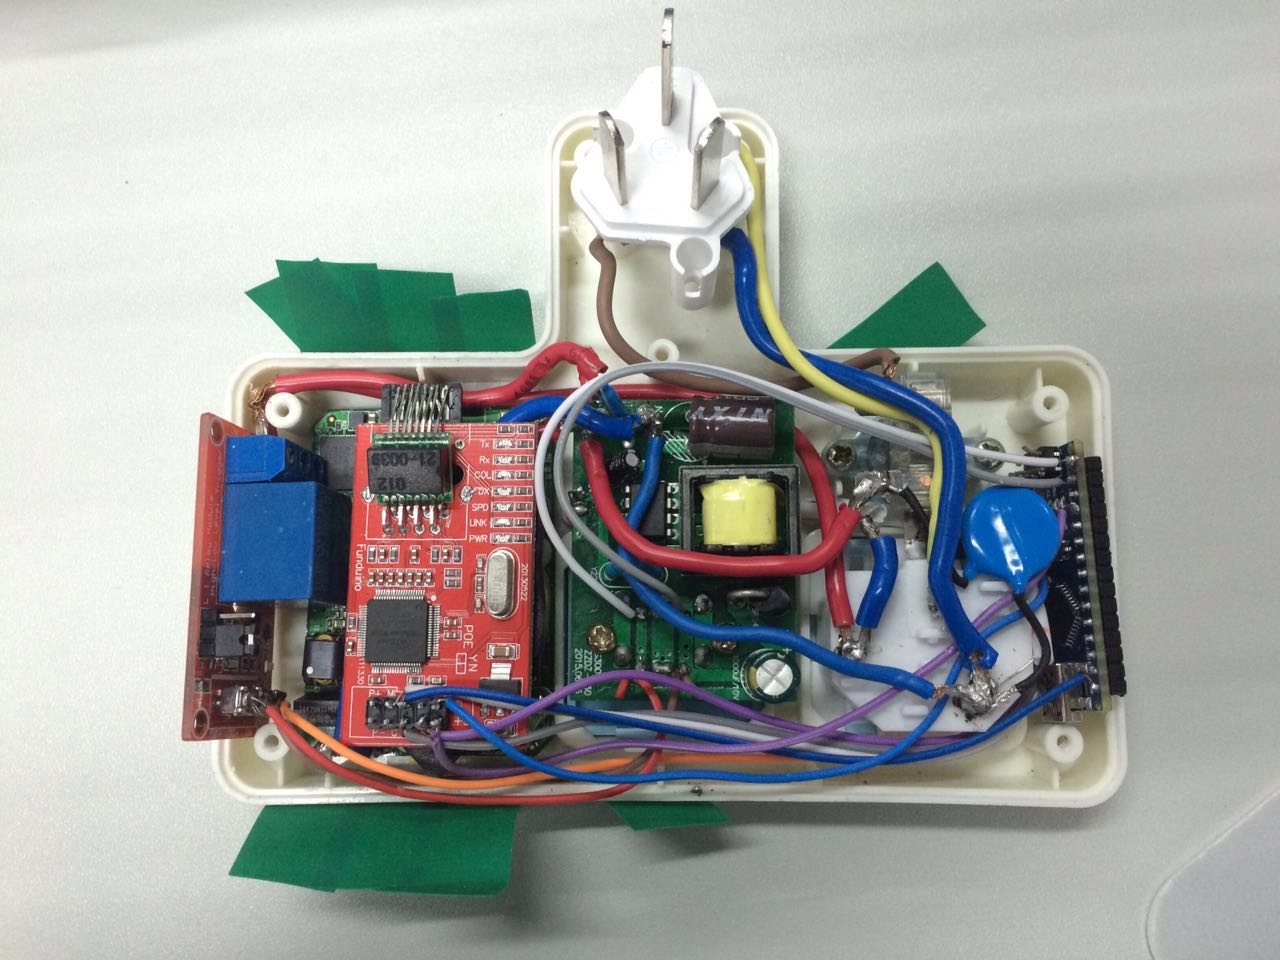
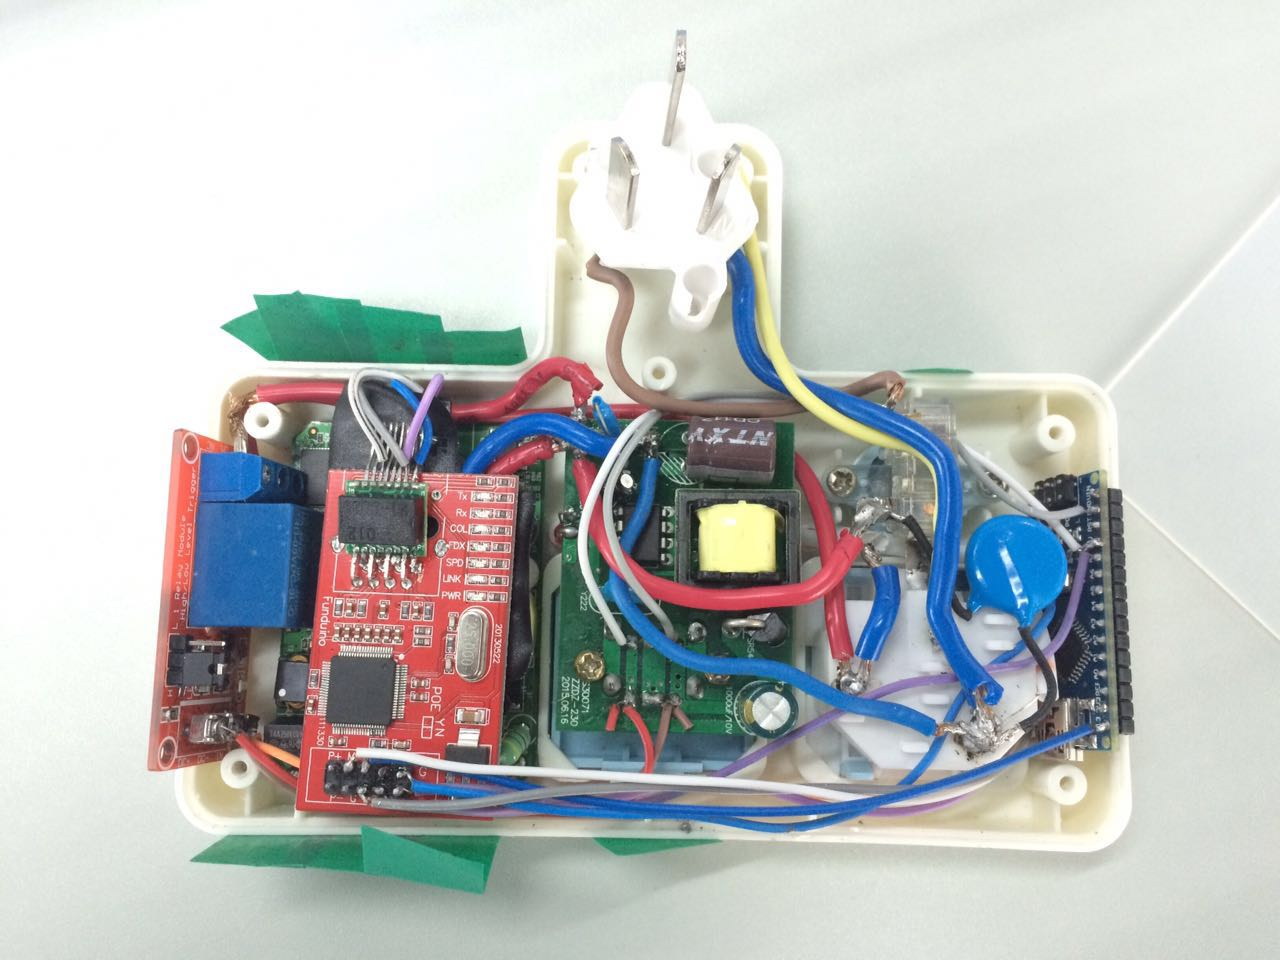
Update wiring mode

diff --git a/docs/smart_plug.md b/docs/smart_plug.md
@@ -31,11 +31,11 @@
 硬件连接
 --------
 
-用插座本身的 USB 接口给 Arduino Nano 供电，因此 USB 的 5V 和 GND 分别接 Arduino Nano 的 VIN 和 GND；同样 USB 的 5V 和 GND 也分别接继电器的 DC+ 和 DC-。Arduino Nano 与 W5100 通过 SPI 的通信，通信接口为（D10(SS)，D11(MOSI)，D12(MISO)，D13(SCK)），总的连线如下，参考智能插座内部图：
+用插座本身的 USB 接口给 Arduino Nano 供电，因此 USB 的 5V 和 GND 分别接 Arduino Nano 的 5V 和 GND；同样 USB 的 5V 和 GND 也分别接继电器的 DC+ 和 DC-。Arduino Nano 与 W5100 通过 SPI 的通信，通信接口为（D10(SS)，D11(MOSI)，D12(MISO)，D13(SCK)）；W5100 与载波模块采取 RJ45 交叉线的连接方式，总的连线如下，参考智能插座内部图：
 
 | Arduino Nano | W5100 | 插座 | 继电器 | 载波模块 |
 |--------|--------|--------|--------|--------|
-| VIN |  | USB 5V | DC+ |  |
+| 5V |  | USB 5V | DC+ |  |
 | GND |  | USB GND | DC- |  |
 | D9 |  |  | IN |  |
 | 5V | +5 |  |  |  |
@@ -47,7 +47,10 @@
 |  |  | LIN(输入火线) | COM | L(火线) |
 |  |  | NIN(输入零线) |  | N(零线) |
 |  |  | LOUT(输出火线) | NO |  |
-|  | RJ45 |  |  | RJ45 |
+|  | RJ45-1 |  |  | RJ45-3 |
+|  | RJ45-3 |  |  | RJ45-1 |
+|  | RJ45-2 |  |  | RJ45-6 |
+|  | RJ45-6 |  |  | RJ45-2 |
 
 安装及测试
 ------
